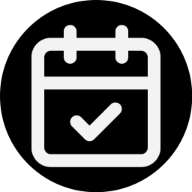
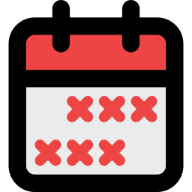
trying to fix things, probably just messing things up

diff --git a/src/components/habits/calendar/calendar-month.tsx b/src/components/habits/calendar/calendar-month.tsx
@@ -158,7 +158,7 @@ export function CalendarMonth({ date, completions, colorTheme, habits }: Calenda
           </div>
         ))}
         {emptyDays.map((_, index) => (
-          <div key={`empty-${index}`} className="aspect-square min-h-[2.5rem]" />
+          <div key={`empty-${index}`} className="aspect-square" />
         ))}
         {days.map((day) => {
           const dayCompletions = completions.filter((completion) => isSameDay(completion.completedAt, day));
@@ -181,7 +181,11 @@ export function CalendarMonth({ date, completions, colorTheme, habits }: Calenda
             <Popover key={day.toISOString()}>
               <PopoverTrigger asChild>
                 <button
-                  className={`aspect-square min-h-[2.5rem] rounded p-1 text-center text-sm ${getBgColor()} ${isToday(day) ? 'ring-2 ring-ring' : ''} transition-all duration-200 hover:brightness-110 ${hasCompletion ? 'text-white dark:text-white' : 'text-gray-700 dark:text-gray-300'}`}
+                  className={`aspect-square w-full rounded p-1 text-center text-sm ${getBgColor()} ${
+                    isToday(day) ? 'ring-2 ring-ring' : ''
+                  } transition-all duration-200 hover:brightness-110 ${
+                    hasCompletion ? 'text-white dark:text-white' : 'text-gray-700 dark:text-gray-300'
+                  }`}
                 >
                   {format(day, 'd')}
                 </button>

diff --git a/src/components/layout/header.tsx b/src/components/layout/header.tsx
@@ -1,9 +1,9 @@
 import { SignedIn, SignedOut, SignInButton, UserButton } from '@clerk/nextjs';
 import Link from 'next/link';
 import { ThemeToggle } from './theme-toggle';
-import { CalendarCheck } from 'lucide-react';
-import { useTranslations } from 'next-intl';
 import { LanguageToggle } from '@/components/layout/language-toggle';
+import Image from 'next/image';
+import { useTranslations } from 'next-intl';
 
 export function Header() {
   const t = useTranslations('app');
@@ -12,8 +12,8 @@ export function Header() {
     <header className="border-b">
       <div className="mx-auto flex h-16 max-w-7xl items-center justify-between px-4 sm:px-6 lg:px-8">
         <Link href="/" className="flex items-center gap-2">
-          <div className="rounded-full bg-primary p-1">
-            <CalendarCheck className="h-6 w-6 text-primary-foreground" />
+          <div className="rounded-full bg-purple-500 p-1">
+            <Image src="/logo.svg" alt="Logo" width={24} height={24} className="h-6 w-6 text-primary-foreground" />
           </div>
           <span className="text-xl font-bold">{t('name')}</span>
         </Link>

diff --git a/src/components/habits/calendar/calendar-view.tsx b/src/components/habits/calendar/calendar-view.tsx
@@ -139,7 +139,7 @@ export function CalendarView({ completions, calendar }: CalendarViewProps) {
           </DialogContent>
         </Dialog>
       </div>
-      <div className="grid min-h-[200px] gap-4 md:grid-cols-3">
+      <div className="grid auto-rows-fr gap-4 sm:grid-cols-1 lg:grid-cols-3">
         {[2, 1, 0].map((monthsAgo) => (
           <CalendarMonth
             key={monthsAgo}
